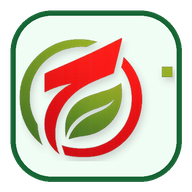
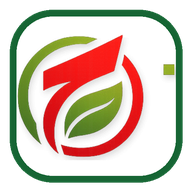
Add files via upload

diff --git a/admin.html b/admin.html
@@ -13,7 +13,7 @@
 <style>
 :root{--bg:#eef4ff;--panel:#fff;--line:#e7eef8;--text:#0f172a;--muted:#64748b;--blue:#2563eb;--blue2:#1d4ed8;--green:#059669;--red:#dc2626;--purple:#7c3aed;--orange:#ea580c;--shadow:0 16px 40px rgba(15,23,42,.08)}
 *{box-sizing:border-box}body{margin:0;font-family:Inter,system-ui,sans-serif;background:var(--bg);color:var(--text)}.hidden{display:none!important}
-.login{min-height:100vh;display:flex;align-items:center;justify-content:center;padding:24px;background:radial-gradient(circle at top left,#1e3a8a,#0f172a 55%)}.card{width:min(460px,100%);background:#fff;border-radius:28px;padding:28px;box-shadow:var(--shadow)}.logo{width:64px;height:64px;border-radius:18px;background:linear-gradient(135deg,var(--blue),var(--purple));display:flex;align-items:center;justify-content:center;color:#fff;font-weight:900;font-size:28px;margin-bottom:16px}.title{font-size:32px;font-weight:900;letter-spacing:-1px;margin:0}.sub{margin:10px 0 20px;color:var(--muted);line-height:1.55}.label{font-size:12px;font-weight:800;text-transform:uppercase;letter-spacing:.08em;color:var(--muted);margin-bottom:8px}.field{margin-bottom:14px}.field input,.field select,.field textarea{width:100%;padding:13px 14px;border-radius:16px;border:1.5px solid #dbe3f0;font:inherit;background:#fff;outline:none}.field textarea{min-height:96px;resize:vertical}.field input:focus,.field select:focus,.field textarea:focus{border-color:var(--blue)}.btn{border:none;border-radius:16px;padding:13px 18px;font:inherit;font-weight:800;cursor:pointer;display:inline-flex;align-items:center;justify-content:center;gap:8px;text-decoration:none}.btn-primary{background:linear-gradient(135deg,var(--blue),var(--blue2));color:#fff;box-shadow:0 12px 24px rgba(37,99,235,.22)}.btn-soft{background:#fff;border:1px solid var(--line);color:var(--text)}.btn-red{background:#fef2f2;border:1px solid #fecaca;color:var(--red)}.btn-green{background:#ecfdf5;border:1px solid #a7f3d0;color:var(--green)}.btn-sm{padding:10px 12px;border-radius:12px;font-size:12px}.err{display:none;color:var(--red);font-size:13px;font-weight:700;margin-top:8px}
+.login{min-height:100vh;display:flex;align-items:center;justify-content:center;padding:24px;background:radial-gradient(circle at top left,#1e3a8a,#0f172a 55%)}.card{width:min(460px,100%);background:#fff;border-radius:28px;padding:28px;box-shadow:var(--shadow)}.logo{width:64px;height:64px;border-radius:18px;background:#fff;display:flex;align-items:center;justify-content:center;overflow:hidden;box-shadow:0 10px 24px rgba(15,23,42,.12);margin-bottom:16px;border:1px solid #e2e8f0}.logo img{width:100%;height:100%;object-fit:cover;display:block}.title{font-size:32px;font-weight:900;letter-spacing:-1px;margin:0}.sub{margin:10px 0 20px;color:var(--muted);line-height:1.55}.label{font-size:12px;font-weight:800;text-transform:uppercase;letter-spacing:.08em;color:var(--muted);margin-bottom:8px}.field{margin-bottom:14px}.field input,.field select,.field textarea{width:100%;padding:13px 14px;border-radius:16px;border:1.5px solid #dbe3f0;font:inherit;background:#fff;outline:none}.field textarea{min-height:96px;resize:vertical}.field input:focus,.field select:focus,.field textarea:focus{border-color:var(--blue)}.btn{border:none;border-radius:16px;padding:13px 18px;font:inherit;font-weight:800;cursor:pointer;display:inline-flex;align-items:center;justify-content:center;gap:8px;text-decoration:none}.btn-primary{background:linear-gradient(135deg,var(--blue),var(--blue2));color:#fff;box-shadow:0 12px 24px rgba(37,99,235,.22)}.btn-soft{background:#fff;border:1px solid var(--line);color:var(--text)}.btn-red{background:#fef2f2;border:1px solid #fecaca;color:var(--red)}.btn-green{background:#ecfdf5;border:1px solid #a7f3d0;color:var(--green)}.btn-sm{padding:10px 12px;border-radius:12px;font-size:12px}.err{display:none;color:var(--red);font-size:13px;font-weight:700;margin-top:8px}
 .main{padding:24px}.shell{max-width:1460px;margin:0 auto}.topbar{background:linear-gradient(135deg,#0f172a,#1e3a8a);color:#fff;border-radius:28px;padding:28px;display:flex;justify-content:space-between;gap:18px;align-items:flex-start;box-shadow:var(--shadow);margin-bottom:18px}.topbar h1{margin:0;font-size:34px;font-weight:900;letter-spacing:-1px}.topbar p{margin:10px 0 0;color:#dbeafe;max-width:760px;line-height:1.6}.actions{display:flex;gap:10px;flex-wrap:wrap}.actions .btn-soft{background:rgba(255,255,255,.12);border-color:rgba(255,255,255,.16);color:#fff}.tabs{display:flex;gap:10px;flex-wrap:wrap;margin-bottom:18px}.tab{padding:11px 16px;border-radius:999px;border:1px solid #dbe3f0;background:#fff;color:#334155;font-weight:800;cursor:pointer}.tab.active{background:#0f172a;color:#fff;border-color:#0f172a}
 .kpis{display:grid;grid-template-columns:repeat(auto-fit,minmax(210px,1fr));gap:16px;margin-bottom:18px}.kpi{background:#fff;border:1px solid var(--line);border-radius:22px;padding:20px;box-shadow:var(--shadow)}.kpi .tag{font-size:12px;font-weight:800;text-transform:uppercase;color:var(--muted);letter-spacing:.08em}.kpi .num{font-size:34px;font-weight:900;margin-top:10px}.grid{display:grid;grid-template-columns:1.2fr .8fr;gap:18px}.panel{background:#fff;border:1px solid var(--line);border-radius:24px;padding:20px;box-shadow:var(--shadow)}.panel-title{display:flex;justify-content:space-between;align-items:center;gap:12px;margin-bottom:16px}.panel-title h2{margin:0;font-size:20px;font-weight:900}.panel-sub{font-size:13px;color:var(--muted);margin-top:4px}.cards{display:grid;grid-template-columns:repeat(auto-fit,minmax(320px,1fr));gap:16px}.site-card{border:1px solid var(--line);border-radius:22px;padding:18px;background:linear-gradient(180deg,#fff,#fbfdff)}.site-head{display:flex;justify-content:space-between;align-items:flex-start;gap:10px}.site-title{font-size:20px;font-weight:900;letter-spacing:-.4px}.code{font-family:ui-monospace,SFMono-Regular,Menlo,monospace;font-size:12px;color:var(--muted);margin-top:4px}.mini{font-size:12px;color:var(--muted)}.badges{display:flex;gap:6px;flex-wrap:wrap}.badge{display:inline-flex;align-items:center;padding:5px 10px;border-radius:999px;font-size:11px;font-weight:800}.b-free{background:#eef2ff;color:#4338ca}.b-pro{background:#dbeafe;color:#1d4ed8}.b-multi{background:#f3e8ff;color:#7e22ce}.b-ent{background:#ede9fe;color:#5b21b6}.b-on{background:#ecfdf5;color:#047857}.b-off{background:#fef2f2;color:#b91c1c}.role{display:inline-flex;align-items:center;padding:4px 9px;border-radius:999px;font-size:11px;font-weight:800}.role-resp{background:#ede9fe;color:#6d28d9}.role-agent{background:#ecfeff;color:#0f766e}.agent-list{display:flex;flex-direction:column;gap:8px;margin-top:12px}.agent-row{display:flex;justify-content:space-between;align-items:center;gap:10px;padding:10px 12px;background:#f8fafc;border:1px solid #e2e8f0;border-radius:16px}.agent-left{display:flex;align-items:center;gap:8px;flex-wrap:wrap}.agent-right{display:flex;align-items:center;gap:8px;flex-wrap:wrap}.site-actions{display:flex;gap:8px;flex-wrap:wrap;margin-top:14px}.form-grid{display:grid;grid-template-columns:repeat(2,minmax(0,1fr));gap:12px}.full{grid-column:1/-1}.toolbar{display:grid;grid-template-columns:220px 1fr auto;gap:10px;margin-bottom:14px}.table-wrap{overflow:auto}.table{width:100%;border-collapse:collapse}.table th,.table td{padding:12px 8px;border-bottom:1px solid #eef2f7;text-align:left;font-size:13px;vertical-align:top}.table th{font-size:11px;text-transform:uppercase;letter-spacing:.08em;color:var(--muted)}.empty{padding:18px 0;color:var(--muted)}.pill{display:inline-flex;align-items:center;padding:5px 9px;border-radius:999px;font-size:11px;font-weight:800}.pill-gray{background:#f1f5f9;color:#475569}.pill-orange{background:#ffedd5;color:#c2410c}.pill-blue{background:#dbeafe;color:#1d4ed8}.session{display:flex;justify-content:space-between;gap:14px;padding:14px;border:1px solid #e7eef8;border-radius:18px;background:#fff}.session+.session{margin-top:10px}.toast{position:fixed;bottom:20px;left:50%;transform:translateX(-50%);background:#0f172a;color:#fff;padding:12px 18px;border-radius:14px;font-size:13px;font-weight:800;display:none;z-index:999}@media(max-width:980px){.grid,.toolbar,.form-grid{grid-template-columns:1fr}.topbar{flex-direction:column}.main{padding:16px}}
 .table-modern tbody tr:nth-child(even){background:#fbfdff}.table-modern tbody tr:hover{background:#eef4ff}.table-sticky thead th{position:sticky;top:0;background:#fff;z-index:1}.mainbase-stats{display:flex;gap:10px;flex-wrap:wrap;margin:10px 0 14px}.mini-pill{display:inline-flex;align-items:center;padding:6px 10px;border-radius:999px;font-size:12px;font-weight:700;background:#f8fafc;border:1px solid #e2e8f0;color:#334155}.pager{display:flex;justify-content:space-between;align-items:center;gap:12px;margin-top:12px;flex-wrap:wrap}.pager-actions{display:flex;gap:8px;align-items:center}.pager select{padding:10px 12px;border-radius:12px;border:1px solid #dbe3f0;font:inherit;background:#fff}.badge-sheet{background:#dbeafe;color:#1d4ed8}.badge-count{background:#ecfdf5;color:#047857}.badge-cols{background:#ede9fe;color:#6d28d9}
@@ -23,7 +23,7 @@
 <body>
 <section id="login" class="login">
   <div class="card">
-    <div class="logo">T</div>
+    <div class="logo"><img src="./assets/tridds-icon-512.png" alt="TriDDS"></div>
     <h1 class="title">TriDDS Admin</h1>
     <p class="sub">Pilotez les sites, les ventes, les sessions, la base produits et la base de connaissance depuis une seule page.</p>
     <div class="field"><div class="label">Clé administrateur</div><input id="in-key" type="password" placeholder="Entrez votre clé admin"></div>

diff --git a/admin-knowledge.html b/admin-knowledge.html
@@ -12,13 +12,13 @@
 <link href="https://fonts.googleapis.com/css2?family=Inter:wght@400;500;600;700;800;900&display=swap" rel="stylesheet">
 <style>
 :root{--bg:#eef4ff;--panel:#fff;--line:#e7eef8;--text:#0f172a;--muted:#64748b;--blue:#2563eb;--blue2:#1d4ed8;--green:#059669;--red:#dc2626;--purple:#7c3aed;--shadow:0 16px 40px rgba(15,23,42,.08)}
-*{box-sizing:border-box}body{margin:0;font-family:Inter,system-ui,sans-serif;background:var(--bg);color:var(--text)}.hidden{display:none!important}.login{min-height:100vh;display:flex;align-items:center;justify-content:center;padding:24px;background:radial-gradient(circle at top left,#1e3a8a,#0f172a 55%)}.card{width:min(460px,100%);background:#fff;border-radius:28px;padding:28px;box-shadow:var(--shadow)}.logo{width:64px;height:64px;border-radius:18px;background:linear-gradient(135deg,var(--blue),var(--purple));display:flex;align-items:center;justify-content:center;color:#fff;font-weight:900;font-size:28px;margin-bottom:16px}.title{font-size:32px;font-weight:900;letter-spacing:-1px;margin:0}.sub{margin:10px 0 20px;color:var(--muted);line-height:1.55}.label{font-size:12px;font-weight:800;text-transform:uppercase;letter-spacing:.08em;color:var(--muted);margin-bottom:8px}.field{margin-bottom:14px}.field input,.field select,.field textarea{width:100%;padding:13px 14px;border-radius:16px;border:1.5px solid #dbe3f0;font:inherit;background:#fff;outline:none}.field input:focus,.field select:focus,.field textarea:focus{border-color:var(--blue)}.field textarea{min-height:96px;resize:vertical}.btn{border:none;border-radius:16px;padding:13px 18px;font:inherit;font-weight:800;cursor:pointer;display:inline-flex;align-items:center;justify-content:center;gap:8px;text-decoration:none}.btn-primary{background:linear-gradient(135deg,var(--blue),var(--blue2));color:#fff;box-shadow:0 12px 24px rgba(37,99,235,.22)}.btn-soft{background:#fff;border:1px solid var(--line);color:var(--text)}.btn-red{background:#fef2f2;border:1px solid #fecaca;color:var(--red)}.btn-green{background:#ecfdf5;border:1px solid #a7f3d0;color:var(--green)}.btn-sm{padding:10px 12px;border-radius:12px;font-size:12px}.err{display:none;color:var(--red);font-size:13px;font-weight:700;margin-top:8px}.main{padding:24px}.shell{max-width:1440px;margin:0 auto}.topbar{background:linear-gradient(135deg,#0f172a,#1e3a8a);color:#fff;border-radius:28px;padding:28px;display:flex;justify-content:space-between;gap:18px;align-items:flex-start;box-shadow:var(--shadow);margin-bottom:18px}.topbar h1{margin:0;font-size:34px;font-weight:900;letter-spacing:-1px}.topbar p{margin:10px 0 0;color:#dbeafe;max-width:760px;line-height:1.6}.actions{display:flex;gap:10px;flex-wrap:wrap}.actions .btn-soft{background:rgba(255,255,255,.12);border-color:rgba(255,255,255,.16);color:#fff}.kpis{display:grid;grid-template-columns:repeat(auto-fit,minmax(220px,1fr));gap:16px;margin-bottom:18px}.kpi{background:#fff;border:1px solid var(--line);border-radius:22px;padding:20px;box-shadow:var(--shadow)}.kpi .tag{font-size:12px;font-weight:800;text-transform:uppercase;color:var(--muted);letter-spacing:.08em}.kpi .num{font-size:34px;font-weight:900;margin-top:10px}.grid{display:grid;grid-template-columns:1.25fr .95fr;gap:18px}.panel{background:#fff;border:1px solid var(--line);border-radius:24px;padding:20px;box-shadow:var(--shadow)}.panel-title{display:flex;justify-content:space-between;align-items:center;gap:12px;margin-bottom:16px}.panel-title h2{margin:0;font-size:20px;font-weight:900}.panel-sub{font-size:13px;color:var(--muted);margin-top:4px}.toolbar{display:grid;grid-template-columns:220px 1fr auto;gap:10px;margin-bottom:14px}.table-wrap{overflow:auto}.table{width:100%;border-collapse:collapse}.table th,.table td{padding:12px 8px;border-bottom:1px solid #eef2f7;text-align:left;font-size:13px;vertical-align:top}.table th{font-size:11px;text-transform:uppercase;letter-spacing:.08em;color:var(--muted)}.pill{display:inline-flex;align-items:center;padding:5px 9px;border-radius:999px;font-size:11px;font-weight:800}.pill-blue{background:#dbeafe;color:#1d4ed8}.pill-green{background:#ecfdf5;color:#047857}.pill-orange{background:#ffedd5;color:#c2410c}.empty{padding:18px 0;color:var(--muted)}.toast{position:fixed;bottom:20px;left:50%;transform:translateX(-50%);background:#0f172a;color:#fff;padding:12px 18px;border-radius:14px;font-size:13px;font-weight:800;display:none;z-index:999}.form-grid{display:grid;grid-template-columns:repeat(2,minmax(0,1fr));gap:12px}.full{grid-column:1/-1}.mini{font-size:12px;color:var(--muted)}@media(max-width:980px){.grid,.toolbar,.form-grid{grid-template-columns:1fr}.topbar{flex-direction:column}.main{padding:16px}}
+*{box-sizing:border-box}body{margin:0;font-family:Inter,system-ui,sans-serif;background:var(--bg);color:var(--text)}.hidden{display:none!important}.login{min-height:100vh;display:flex;align-items:center;justify-content:center;padding:24px;background:radial-gradient(circle at top left,#1e3a8a,#0f172a 55%)}.card{width:min(460px,100%);background:#fff;border-radius:28px;padding:28px;box-shadow:var(--shadow)}.logo{width:64px;height:64px;border-radius:18px;background:#fff;display:flex;align-items:center;justify-content:center;overflow:hidden;box-shadow:0 10px 24px rgba(15,23,42,.12);margin-bottom:16px;border:1px solid #e2e8f0}.logo img{width:100%;height:100%;object-fit:cover;display:block}.title{font-size:32px;font-weight:900;letter-spacing:-1px;margin:0}.sub{margin:10px 0 20px;color:var(--muted);line-height:1.55}.label{font-size:12px;font-weight:800;text-transform:uppercase;letter-spacing:.08em;color:var(--muted);margin-bottom:8px}.field{margin-bottom:14px}.field input,.field select,.field textarea{width:100%;padding:13px 14px;border-radius:16px;border:1.5px solid #dbe3f0;font:inherit;background:#fff;outline:none}.field input:focus,.field select:focus,.field textarea:focus{border-color:var(--blue)}.field textarea{min-height:96px;resize:vertical}.btn{border:none;border-radius:16px;padding:13px 18px;font:inherit;font-weight:800;cursor:pointer;display:inline-flex;align-items:center;justify-content:center;gap:8px;text-decoration:none}.btn-primary{background:linear-gradient(135deg,var(--blue),var(--blue2));color:#fff;box-shadow:0 12px 24px rgba(37,99,235,.22)}.btn-soft{background:#fff;border:1px solid var(--line);color:var(--text)}.btn-red{background:#fef2f2;border:1px solid #fecaca;color:var(--red)}.btn-green{background:#ecfdf5;border:1px solid #a7f3d0;color:var(--green)}.btn-sm{padding:10px 12px;border-radius:12px;font-size:12px}.err{display:none;color:var(--red);font-size:13px;font-weight:700;margin-top:8px}.main{padding:24px}.shell{max-width:1440px;margin:0 auto}.topbar{background:linear-gradient(135deg,#0f172a,#1e3a8a);color:#fff;border-radius:28px;padding:28px;display:flex;justify-content:space-between;gap:18px;align-items:flex-start;box-shadow:var(--shadow);margin-bottom:18px}.topbar h1{margin:0;font-size:34px;font-weight:900;letter-spacing:-1px}.topbar p{margin:10px 0 0;color:#dbeafe;max-width:760px;line-height:1.6}.actions{display:flex;gap:10px;flex-wrap:wrap}.actions .btn-soft{background:rgba(255,255,255,.12);border-color:rgba(255,255,255,.16);color:#fff}.kpis{display:grid;grid-template-columns:repeat(auto-fit,minmax(220px,1fr));gap:16px;margin-bottom:18px}.kpi{background:#fff;border:1px solid var(--line);border-radius:22px;padding:20px;box-shadow:var(--shadow)}.kpi .tag{font-size:12px;font-weight:800;text-transform:uppercase;color:var(--muted);letter-spacing:.08em}.kpi .num{font-size:34px;font-weight:900;margin-top:10px}.grid{display:grid;grid-template-columns:1.25fr .95fr;gap:18px}.panel{background:#fff;border:1px solid var(--line);border-radius:24px;padding:20px;box-shadow:var(--shadow)}.panel-title{display:flex;justify-content:space-between;align-items:center;gap:12px;margin-bottom:16px}.panel-title h2{margin:0;font-size:20px;font-weight:900}.panel-sub{font-size:13px;color:var(--muted);margin-top:4px}.toolbar{display:grid;grid-template-columns:220px 1fr auto;gap:10px;margin-bottom:14px}.table-wrap{overflow:auto}.table{width:100%;border-collapse:collapse}.table th,.table td{padding:12px 8px;border-bottom:1px solid #eef2f7;text-align:left;font-size:13px;vertical-align:top}.table th{font-size:11px;text-transform:uppercase;letter-spacing:.08em;color:var(--muted)}.pill{display:inline-flex;align-items:center;padding:5px 9px;border-radius:999px;font-size:11px;font-weight:800}.pill-blue{background:#dbeafe;color:#1d4ed8}.pill-green{background:#ecfdf5;color:#047857}.pill-orange{background:#ffedd5;color:#c2410c}.empty{padding:18px 0;color:var(--muted)}.toast{position:fixed;bottom:20px;left:50%;transform:translateX(-50%);background:#0f172a;color:#fff;padding:12px 18px;border-radius:14px;font-size:13px;font-weight:800;display:none;z-index:999}.form-grid{display:grid;grid-template-columns:repeat(2,minmax(0,1fr));gap:12px}.full{grid-column:1/-1}.mini{font-size:12px;color:var(--muted)}@media(max-width:980px){.grid,.toolbar,.form-grid{grid-template-columns:1fr}.topbar{flex-direction:column}.main{padding:16px}}
 </style>
 </head>
 <body>
 <section id="login" class="login">
   <div class="card">
-    <div class="logo">T</div>
+    <div class="logo"><img src="./assets/tridds-icon-512.png" alt="TriDDS"></div>
     <h1 class="title">Base de connaissance</h1>
     <p class="sub">Pilotez ce que l’IA apprend réellement : marques, cas fréquents, catégories, flux et promotion vers le catalogue officiel.</p>
     <div class="field"><div class="label">Clé administrateur</div><input id="in-key" type="password" placeholder="Entrez votre clé admin"></div>

diff --git a/admin-base.html b/admin-base.html
@@ -13,14 +13,14 @@
 <style>
 :root{--bg:#eef4ff;--panel:#fff;--line:#e7eef8;--text:#0f172a;--muted:#64748b;--blue:#2563eb;--blue2:#1d4ed8;--green:#059669;--red:#dc2626;--purple:#7c3aed;--shadow:0 16px 40px rgba(15,23,42,.08);--r:22px}
 *{box-sizing:border-box}body{margin:0;font-family:Inter,system-ui,sans-serif;background:var(--bg);color:var(--text)}.hidden{display:none!important}
-.login{min-height:100vh;display:flex;align-items:center;justify-content:center;padding:24px;background:radial-gradient(circle at top left,#1e3a8a,#0f172a 55%)}.card{width:min(460px,100%);background:#fff;border-radius:28px;padding:28px;box-shadow:var(--shadow)}.logo{width:64px;height:64px;border-radius:18px;background:linear-gradient(135deg,var(--blue),var(--purple));display:flex;align-items:center;justify-content:center;color:#fff;font-weight:900;font-size:28px;margin-bottom:16px}.title{font-size:32px;font-weight:900;letter-spacing:-1px;margin:0}.sub{margin:10px 0 20px;color:var(--muted);line-height:1.55}.label{font-size:12px;font-weight:800;text-transform:uppercase;letter-spacing:.08em;color:var(--muted);margin-bottom:8px}.field{margin-bottom:14px}.field input,.field select,.field textarea{width:100%;padding:13px 14px;border-radius:16px;border:1.5px solid #dbe3f0;font:inherit;background:#fff;outline:none}.field textarea{min-height:96px;resize:vertical}.field input:focus,.field select:focus,.field textarea:focus{border-color:var(--blue)}.btn{border:none;border-radius:16px;padding:13px 18px;font:inherit;font-weight:800;cursor:pointer;display:inline-flex;align-items:center;justify-content:center;gap:8px;text-decoration:none}.btn-primary{background:linear-gradient(135deg,var(--blue),var(--blue2));color:#fff;box-shadow:0 12px 24px rgba(37,99,235,.22)}.btn-soft{background:#fff;border:1px solid var(--line);color:var(--text)}.btn-red{background:#fef2f2;border:1px solid #fecaca;color:var(--red)}.btn-green{background:#ecfdf5;border:1px solid #a7f3d0;color:var(--green)}.btn-sm{padding:10px 12px;border-radius:12px;font-size:12px}.err{display:none;color:var(--red);font-size:13px;font-weight:700;margin-top:8px}
+.login{min-height:100vh;display:flex;align-items:center;justify-content:center;padding:24px;background:radial-gradient(circle at top left,#1e3a8a,#0f172a 55%)}.card{width:min(460px,100%);background:#fff;border-radius:28px;padding:28px;box-shadow:var(--shadow)}.logo{width:64px;height:64px;border-radius:18px;background:#fff;display:flex;align-items:center;justify-content:center;overflow:hidden;box-shadow:0 10px 24px rgba(15,23,42,.12);margin-bottom:16px;border:1px solid #e2e8f0}.logo img{width:100%;height:100%;object-fit:cover;display:block}.title{font-size:32px;font-weight:900;letter-spacing:-1px;margin:0}.sub{margin:10px 0 20px;color:var(--muted);line-height:1.55}.label{font-size:12px;font-weight:800;text-transform:uppercase;letter-spacing:.08em;color:var(--muted);margin-bottom:8px}.field{margin-bottom:14px}.field input,.field select,.field textarea{width:100%;padding:13px 14px;border-radius:16px;border:1.5px solid #dbe3f0;font:inherit;background:#fff;outline:none}.field textarea{min-height:96px;resize:vertical}.field input:focus,.field select:focus,.field textarea:focus{border-color:var(--blue)}.btn{border:none;border-radius:16px;padding:13px 18px;font:inherit;font-weight:800;cursor:pointer;display:inline-flex;align-items:center;justify-content:center;gap:8px;text-decoration:none}.btn-primary{background:linear-gradient(135deg,var(--blue),var(--blue2));color:#fff;box-shadow:0 12px 24px rgba(37,99,235,.22)}.btn-soft{background:#fff;border:1px solid var(--line);color:var(--text)}.btn-red{background:#fef2f2;border:1px solid #fecaca;color:var(--red)}.btn-green{background:#ecfdf5;border:1px solid #a7f3d0;color:var(--green)}.btn-sm{padding:10px 12px;border-radius:12px;font-size:12px}.err{display:none;color:var(--red);font-size:13px;font-weight:700;margin-top:8px}
 .main{padding:24px}.shell{max-width:1420px;margin:0 auto}.topbar{background:linear-gradient(135deg,#0f172a,#1e3a8a);color:#fff;border-radius:28px;padding:28px;display:flex;justify-content:space-between;gap:18px;align-items:flex-start;box-shadow:var(--shadow);margin-bottom:18px}.topbar h1{margin:0;font-size:34px;font-weight:900;letter-spacing:-1px}.topbar p{margin:10px 0 0;color:#dbeafe;max-width:760px;line-height:1.6}.actions{display:flex;gap:10px;flex-wrap:wrap}.actions .btn-soft{background:rgba(255,255,255,.12);border-color:rgba(255,255,255,.16);color:#fff}.kpis{display:grid;grid-template-columns:repeat(auto-fit,minmax(220px,1fr));gap:16px;margin-bottom:18px}.kpi{background:#fff;border:1px solid var(--line);border-radius:22px;padding:20px;box-shadow:var(--shadow)}.kpi .tag{font-size:12px;font-weight:800;text-transform:uppercase;color:var(--muted);letter-spacing:.08em}.kpi .num{font-size:34px;font-weight:900;margin-top:10px}.grid{display:grid;grid-template-columns:1.3fr .9fr;gap:18px}.panel{background:#fff;border:1px solid var(--line);border-radius:24px;padding:20px;box-shadow:var(--shadow)}.panel-title{display:flex;justify-content:space-between;align-items:center;gap:12px;margin-bottom:16px}.panel-title h2{margin:0;font-size:20px;font-weight:900}.panel-sub{font-size:13px;color:var(--muted);margin-top:4px}.toolbar{display:grid;grid-template-columns:220px 1fr auto;gap:10px;margin-bottom:14px}.table-wrap{overflow:auto}.table{width:100%;border-collapse:collapse}.table th,.table td{padding:12px 8px;border-bottom:1px solid #eef2f7;text-align:left;font-size:13px;vertical-align:top}.table th{font-size:11px;text-transform:uppercase;letter-spacing:.08em;color:var(--muted)}.pill{display:inline-flex;align-items:center;padding:5px 9px;border-radius:999px;font-size:11px;font-weight:800}.pill-blue{background:#dbeafe;color:#1d4ed8}.pill-green{background:#ecfdf5;color:#047857}.pill-gray{background:#f1f5f9;color:#475569}.empty{padding:18px 0;color:var(--muted)}.toast{position:fixed;bottom:20px;left:50%;transform:translateX(-50%);background:#0f172a;color:#fff;padding:12px 18px;border-radius:14px;font-size:13px;font-weight:800;display:none;z-index:999}.form-grid{display:grid;grid-template-columns:repeat(2,minmax(0,1fr));gap:12px}.full{grid-column:1/-1}.mini{font-size:12px;color:var(--muted)}@media(max-width:980px){.grid,.toolbar,.form-grid{grid-template-columns:1fr}.topbar{flex-direction:column}.main{padding:16px}}
 </style>
 </head>
 <body>
 <section id="login" class="login">
   <div class="card">
-    <div class="logo">T</div>
+    <div class="logo"><img src="./assets/tridds-icon-512.png" alt="TriDDS"></div>
     <h1 class="title">Base produits admin</h1>
     <p class="sub">Gestion centrale des fiches produits personnalisées par client et par site.</p>
     <div class="field"><div class="label">Clé administrateur</div><input id="in-key" type="password" placeholder="Entrez votre clé admin"></div>
